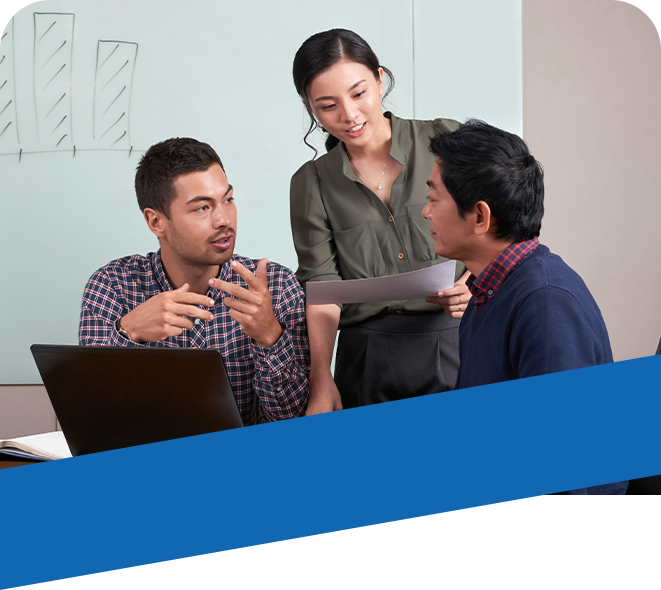
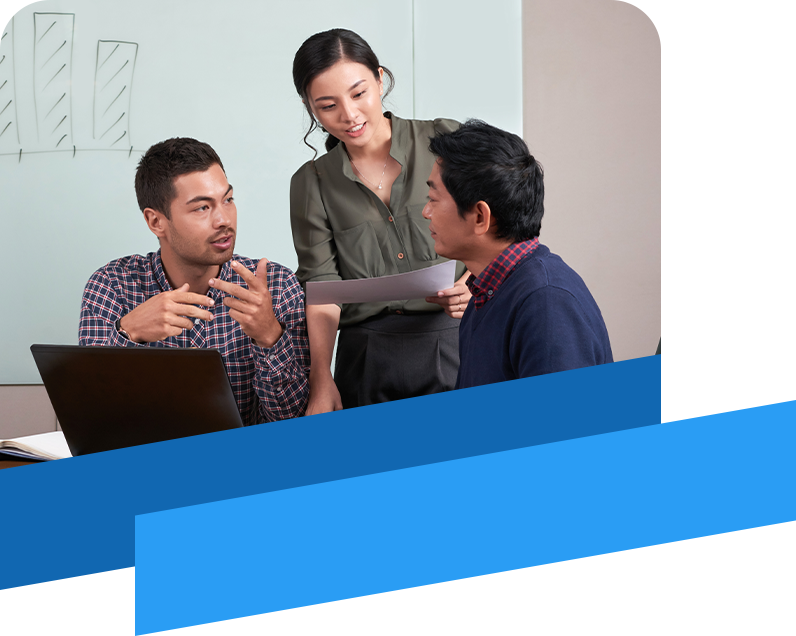
The company page

diff --git a/src/views/TheCompany/CompanyContainer.tsx b/src/views/TheCompany/CompanyContainer.tsx
@@ -2,10 +2,13 @@
 import { Text } from "@/components/Text"
 import { TitleText } from "@/components/TitleText"
 import cx from 'clsx'
+import Image from "next/image"
+import {meeting, bgFade} from "@/assets/TheCompany"
 
 const CompanyContainer = () => {
   return (
-    <div className="w-3/4 mx-auto">
+    <>
+    <div className="w-3/4 mx-auto text-justify">
         <div className="flex justify-center">
             <TitleText
                 size='head'
@@ -13,16 +16,61 @@ const CompanyContainer = () => {
                 About Us
             </TitleText>
         </div>
-        <Text
-          size='title'
-          className={cx('text-black mt-5 leading-6 font-semibold', 'tablet:!text-sm', 'phone:!text-[12px]')}>
-            The Company
-        </Text>
+        <h1>
+        The Company
+        </h1>   
         <p className="mt-8">Established in the year 2000, <span className="text-[#2a9df4]">Business Asia Consulting </span>is a distinguished business consultancy firm that extends its services to aid aspiring entrepreneurs in setting up their businesses in the <span className="text-[#2a9df4]">PHILIPPINES</span>. Our areas of expertise include legal and accounting advisory and HR outsourcing services.</p>
         <p className="mt-8">Having served as a pioneering industry player for almost two decades, our firm has been instrumental in facilitating numerous enterprises and corporations to effectively penetrate the <span className="text-[#2a9df4]">PHILIPPINE</span> market by capitalizing on our unwavering professionalism.</p>
         <p className="mt-8">We acknowledge that there is no one-size-fits-all approach when it comes to business strategies. Thus, we take pride in our personalized approach, catering to each business unique and specific requirements. Our bespoke solutions guarantee a smooth and successful establishment and expansion of your business in the <span className="text-[#2a9df4]">PHILIPPINES</span>.</p>
+        <div className="my-12 flex flex-col justify-between md:flex-row">
+            <div className="flex flex-col order-2 md:order-1 md:w-2/5 ">
+                <div className="">
+                    <h1 className="py-6 font-semibold">Our Mission</h1>
+                    <p className="text-base mb-6">As one of the first business consulting firms to be established within the PHILIPPINES, our mission is to confidently commit and deliver the best service that our customers need.</p>
+                    <p className="text-base">We treat every clients business as if it were our own, which is why we are the most trusted one-stop consultancies for both local and foreign  businesses and individuals.</p>
+                </div>
 
+                <div>
+                    <h1 className="py-6 font-semibold">Our Vision</h1>
+                    <p className="text-base mb-6">Our vision is to become the go-to consulting company for all local and foreign businesses in the country.</p>
+                    <p className="text-base">We also aim to expand our locations globally, especially in Asia, to meet our growing clients demands.</p>
+                </div>
+
+            </div>
+
+            <div className="order-1 md:order-2">
+                <Image src={meeting} alt="huddle">
+                </Image>
+            </div>
+        </div>
     </div>
+    
+    {/* desktop */}
+    <section style={{
+        backgroundImage: `url(${bgFade.src})`,
+        clipPath:'polygon(90% 0, 100% 88%, 0 100%, 0 15%)',
+        }} 
+        className="hidden md:block h-screen w-full bg-no-repeat bg-clip-content bg-cover bg-center relative top-[-176px] z-[-10]">
+            <div className="w-3/4 mx-auto flex justify-center relative top-[150px]">
+                <TitleText
+                    size='head'
+                    direction='center'>
+                    Our Leaders
+                </TitleText>
+            </div>
+            
+
+    </section>  
+{/* mobile version */}
+        <section style={{
+        backgroundImage: `url(${bgFade.src})`,
+        clipPath:'polygon(100% 0, 100% 85%, 0 100%, 0 15%)',
+        backgroundPosition:'-645px, 0px'
+        }} 
+        className="h-screen w-full bg-no-repeat bg-clip-content bg-cover bg-center opacity-10 relative top-[-72px] z-[-10] lg:hidden">
+            
+        </section>  
+    </>
   )
 }
 

diff --git a/src/assets/TheCompany/index.tsx b/src/assets/TheCompany/index.tsx
@@ -1,9 +1,11 @@
 import bgHoping from "./bgHoping.png"
 import leaders from "./leaders.png"
 import meeting from "./meeting.png"
+import bgFade from "./bg-fade.png"
 
 export {
   bgHoping,
   leaders,
-  meeting
+  meeting,
+  bgFade
 }
